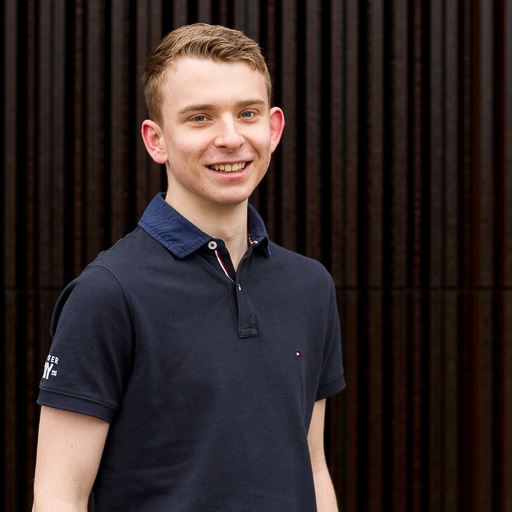
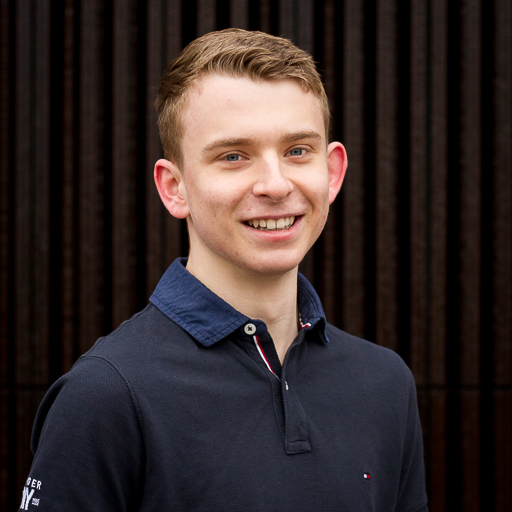
Added karl to the team and new team fotos.

diff --git a/src/team.html b/src/team.html
@@ -322,6 +322,23 @@
                                     </div>
                                 </div>
                             </div>
+
+                            <div class="portfolio-item">
+                                <div class="portfolio-item-content-team">
+                                    <div class="item-thumbnail">
+                                        <img src="img/team/karl.jpg" alt="">
+                                    </div>
+                                    <div class="portfolio-description">
+                                        <h4><a href="https://de.linkedin.com/in/tichy-karl-75476581" target="_blank">Karl Tichy</a></h4>
+                                        <!--<ul class="portfolio-cat">-->
+                                        <!--<li><a href="#">Wizard of light bulb moments</a></li>-->
+                                        <!--</ul>-->
+                                        <ul class="portfolio-action-btn">
+                                            <li><a class="" data-gall="myGallery" href="https://de.linkedin.com/in/tichy-karl-75476581" target="_blank"><i class="icon-attachment"></i></a></li>
+                                        </ul>
+                                    </div>
+                                </div>
+                            </div>
                         </div>
                     </div>
                 </div>
